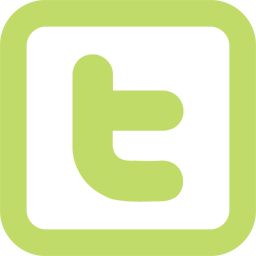
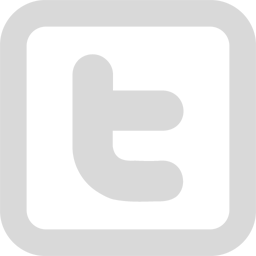
Style for footer is modified

diff --git a/_sass/_layout.scss b/_sass/_layout.scss
@@ -15,6 +15,7 @@
 }
 
 .site-title {
+    text-decoration: none;
     border: solid $white-color thin;
     font-size: 26px;
     line-height: 30px;
@@ -162,19 +163,32 @@
     color: $grey-color;
     background-color: $black-background;
 }
+
+.footer-heading {
+    font-size: $h2-font-size;
+    color: $grey-font-color;
+    text-align: left;
+}
+
 .footer-content {
     float: left;
     width: 40%;
     font-size: $small-font-size;
+    text-align: justify;
+
+    a {
+        color: $white-color;
+        text-decoration: underline;
+        &:visited {
+            color: $grey-font-color;
+        }
+    }
 }
-.footer-heading {
-    text-align: left;
-}
+
 .footer-social-media {
     float: right;
-    li {
-        display: inline-block;
-        margin: 0 .5em;
+    a{
+        text-decoration: none;
     }
 }
 
@@ -223,23 +237,39 @@
 //}
 
 @include media-query($on-laptop) {
-    .footer-col-1,
-    .footer-col-2 {
-        width: -webkit-calc(50% - (#{$spacing-unit} / 2));
-        width:         calc(50% - (#{$spacing-unit} / 2));
-    }
-
-    .footer-col-3 {
-        width: -webkit-calc(100% - (#{$spacing-unit} / 2));
-        width:         calc(100% - (#{$spacing-unit} / 2));
-    }
+    //.footer-col-1,
+    //.footer-col-2 {
+    //    width: -webkit-calc(50% - (#{$spacing-unit} / 2));
+    //    width:         calc(50% - (#{$spacing-unit} / 2));
+    //}
+    //
+    //.footer-col-3 {
+    //    width: -webkit-calc(100% - (#{$spacing-unit} / 2));
+    //    width:         calc(100% - (#{$spacing-unit} / 2));
+    //}
 }
 
 @include media-query($on-palm) {
-    .footer-col {
+    //.footer-col {
+    //    float: none;
+    //    width: -webkit-calc(100% - (#{$spacing-unit} / 2));
+    //    width:         calc(100% - (#{$spacing-unit} / 2));
+    //}
+
+    .footer-heading {
+        text-align: center;
+    }
+
+    .footer-content {
+        text-align: center;
+        width: 100%;
+        //margin: 0 auto;
+    }
+
+    .footer-social-media {
         float: none;
-        width: -webkit-calc(100% - (#{$spacing-unit} / 2));
-        width:         calc(100% - (#{$spacing-unit} / 2));
+        margin: 0 auto;
+
     }
 }
 
@@ -253,7 +283,11 @@
 }
 
 .page-heading {
-    font-size: 20px;
+    font-size: $h1-font-size;
+}
+
+.post-title {
+    font-size: $h1-font-size;
 }
 
 .post-list {

diff --git a/_includes/footer.html b/_includes/footer.html
@@ -5,25 +5,24 @@
       <div class="footer-content">
           <h2 class="footer-heading">{{ site.title }}</h2>
           <p class="text">{{ site.description }}</p>
+          <a class="footer-mail" href="mailto:{{ site.email }}">{{ site.email }}</a>
           <p class="rss-subscribe">Subscribe <a href="{{ "/feed.xml" | prepend: site.baseurl }}">via RSS</a>.</p>
       </div>
 
       <div class="footer-social-media">
-          <ul>
-              <li>
-                  <a href="https://twitter.com/{{ site.twitter_username }}">
+
+                  <a target="_blank" href="https://twitter.com/{{ site.twitter_username }}">
                       <img src="/images/twitter.png" alt="twitter logo" width="50">
                   </a>
-              </li>
 
-              <li>
-                  <a href="https://github.com/{{ site.github_username }}">
+
+
+                  <a target="_blank" href="https://github.com/{{ site.github_username }}">
                       <img src="/images/github.png" alt="github logo" width="50">
                   </a>
-              </li>
-          </ul>
 
-          <a class="footer-content" href="mailto:{{ site.email }}">{{ site.email }}</a>
+
+          <!--<a class="footer-mail" href="mailto:{{ site.email }}">{{ site.email }}</a>-->
       </div>
 
     <!--<h2 class="footer-heading">{{ site.title }}</h2>-->

diff --git a/index.html b/index.html
@@ -9,8 +9,8 @@ permalink: /
   <!--<h1 class="page-heading">Hello!</h1>-->
 
     <article class="post-content">
-        <p>I'm glad to welcome you to my website. As you can guess by the title, Task Storage aims to collect assignments in order to organize studying process.
-        To be more specific, the website stores the assignments in the course "Client-based Web Programming" (and some others courses to come) at Linnaeus university in Sweden.
+        <p>I'm glad to welcome you to my website. As you can guess by the name, Task Storage aims to collect assignments in order to organize the studying process.
+        To be more specific, the website stores the assignments in the course "Client-based Web Programming" (and some other courses to come) at Linnaeus university in Sweden.
         In this course we learn how to create applications for the web browser and at the same time perfect our skills in HTML, CSS and JavaScript.</p>
 
         <p>Besides the assignments  you can find some information about me or read some of my breathtaking posts in the blog section. Feel free to comment on any point made there.</p>

diff --git a/css/main.scss b/css/main.scss
@@ -7,7 +7,8 @@
 $base-font-family: Verdana, Helvetica, Arial, sans-serif;
 $base-font-size:   16px;
 $h1-font-size:     50px;
-$h2-font-size:     30px;
+$h2-font-size:     25px;
+
 $small-font-size:  $base-font-size * 0.875;
 $base-line-height: 1.5;
 $spacing-unit:     30px;
@@ -19,7 +20,7 @@ $brand-color:      #0e6941;
 $black-font-color: #040308;
 $black-background: #1E1F21;
 $white-color:      #FFFFFF;
-$grey-font-color:  #686B6A;
+$grey-font-color: #949796;
 
 
 $grey-color: #d9d9d9;

diff --git a/_sass/_base.scss b/_sass/_base.scss
@@ -97,11 +97,11 @@ h2 {
  * Links
  */
 a {
-    color: $brand-color;
-    text-decoration: none;
+    color: $grey-font-color;
+    text-decoration: underline;
 
     &:visited {
-        color: darken($brand-color, 15%);
+        color: darken($grey-font-color, 15%);
     }
 
     &:hover {
